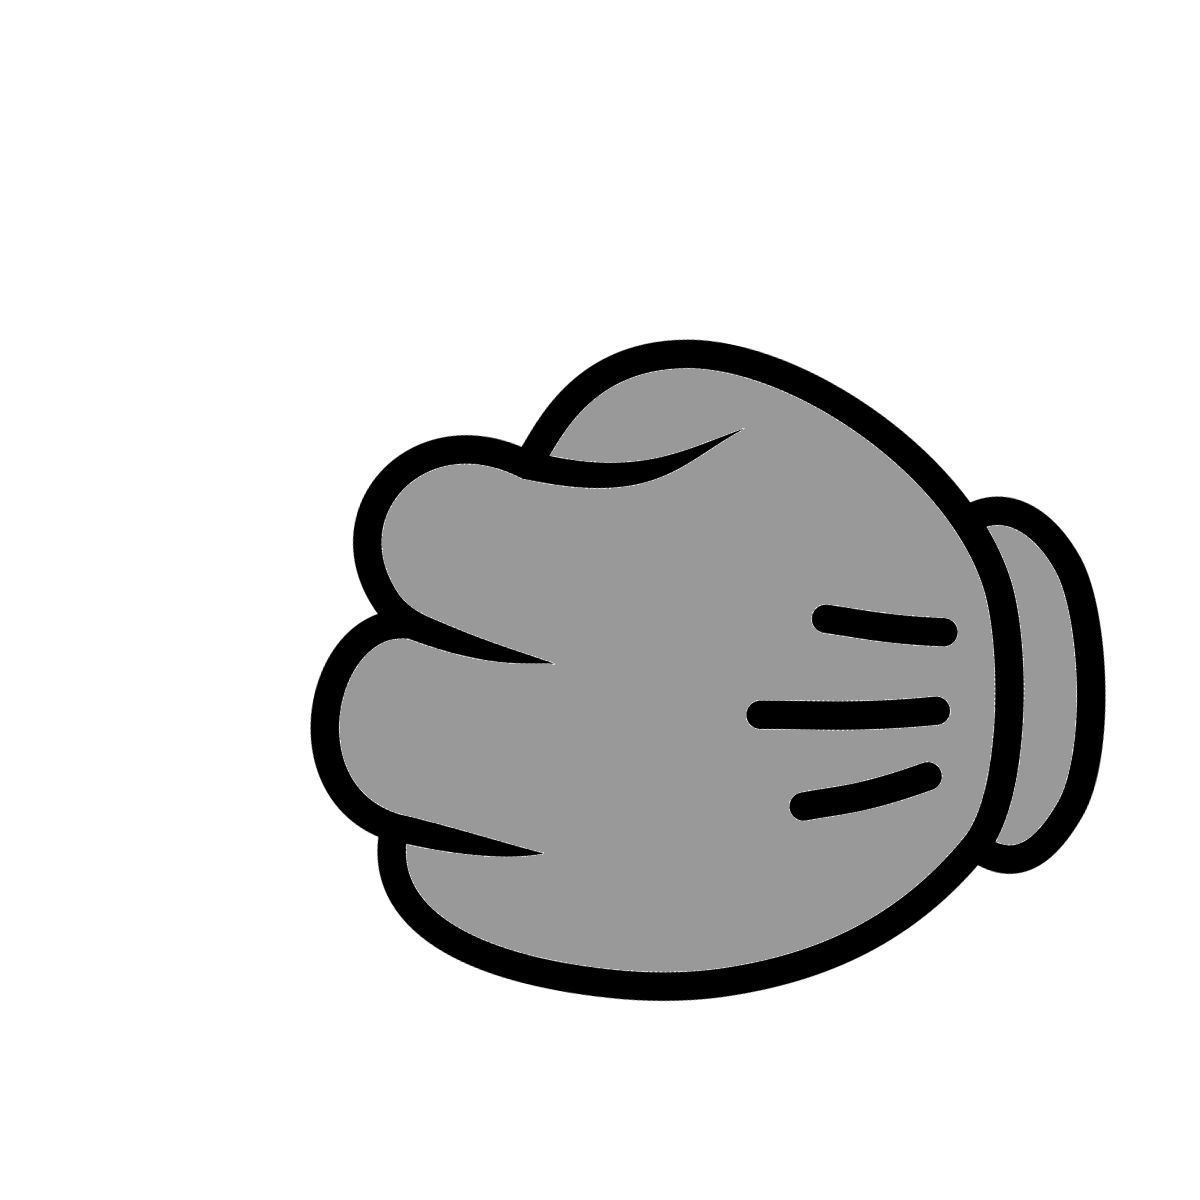
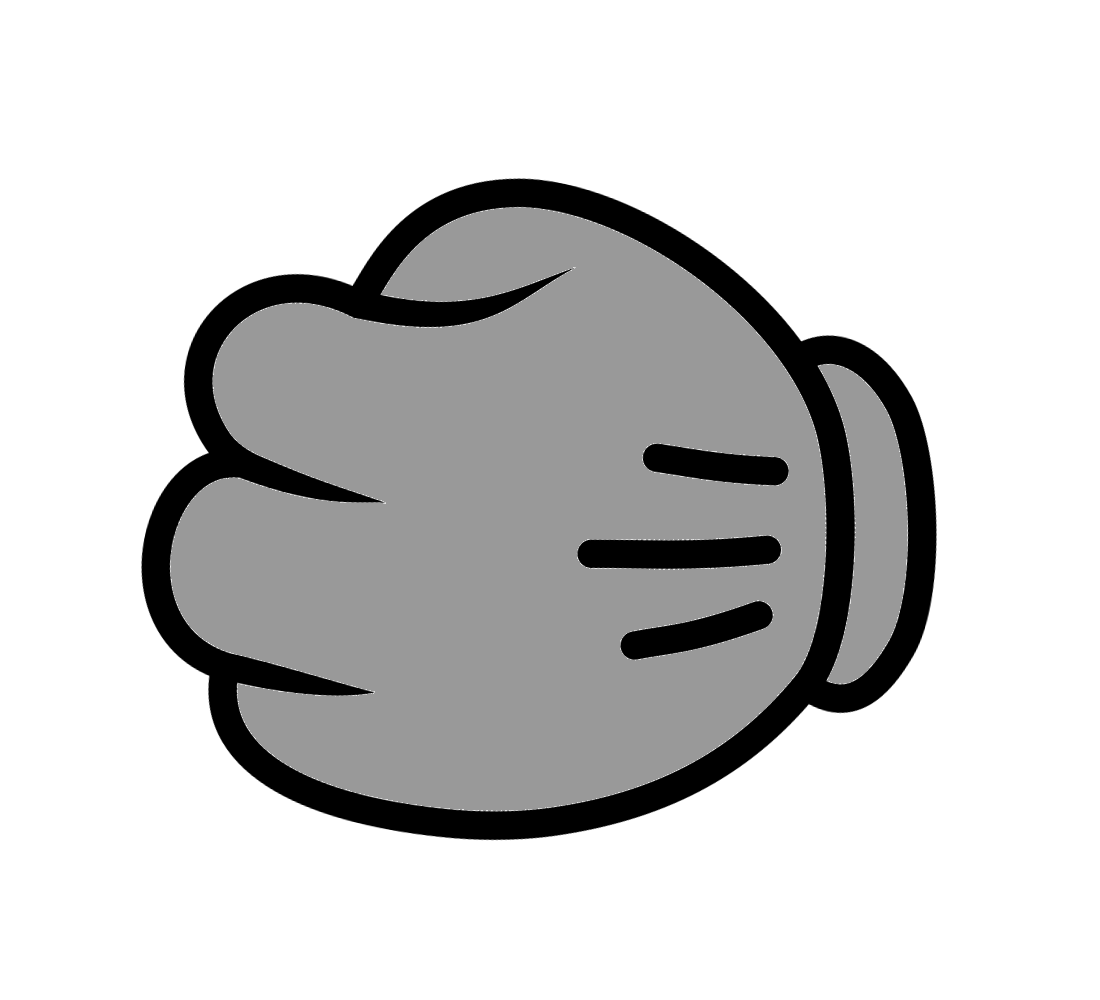
Bug fixes and fully running

Changed region(s): [[0.1236, 0.155, 0.9273, 0.868], [0.5873, 0.341, 0.6182, 0.372]]

diff --git a/script.js b/script.js
@@ -1,3 +1,17 @@
+var computerPlay;
+var cprock = document.getElementById("cpRockBtn");
+var cppaper = document.getElementById("cpPaperBtn");
+var cpscissors = document.getElementById("cpSciBtn");
+var cpChoice = document.getElementById("computerChoice");
+
+var playerPlay;
+var plrock = document.getElementById("plRockBtn");
+var plpaper = document.getElementById("plPaperBtn");
+var plscissors = document.getElementById("plSciBtn");
+var plChoice = document.getElementById("playerChoice");
+
+listen();
+
 function randomPlay(){
     var play = Math.floor(Math.random() * 3);
     switch(play){
@@ -6,11 +20,6 @@ function randomPlay(){
         case 2: return "scissors";
     }
 }
-var computerPlay = "";
-var cprock = document.getElementById("cpRockBtn");
-var cppaper = document.getElementById("cpPaperBtn");
-var cpscissors = document.getElementById("cpSciBtn");
-var cpChoice = document.querySelector("#computerChoice");
 
 function opponent(){
     var comPlay = randomPlay();
@@ -29,34 +38,10 @@ function opponent(){
         cpscissors.style.border = "thick solid black";
         cpChoice.src = "scissorshandcp.png";
     }
+    return comPlay;
 }
 
-var playerPlay = "";
-var plrock = document.querySelector("#plRockBtn");
-var plpaper = document.querySelector("#plPaperBtn");
-var plscissors = document.querySelector("#plSciBtn");
-var plChoice = document.querySelector("#playerChoice");
-
-plrock.addEventListener("click", function(){
-    plChoice.src = "rockhandpl.png";
-    playerPlay = "rock";
-    computerPlay = opponent();
-});
-
-plpaper.addEventListener("click", function(){
-    plChoice.src = "paperhandpl.png";
-    playerPlay = "paper";
-    computerPlay = opponent();
-});
-
-plscissors.addEventListener("click", function(){
-    plChoice.src = "scissorshandpl.png";
-    playerPlay = "scissors";
-    computerPlay = opponent();
-});
-
 function Win(playerSelection, computerSelection){
-    alert('hena');
     if(playerSelection == computerSelection)
         return 0;
     if((playerSelection == 'rock' && computerSelection == 'scissors') ||
@@ -66,17 +51,47 @@ function Win(playerSelection, computerSelection){
     return -1;
 }
 
-var winner = Win(playerPlay, computerPlay);
-console.log("and the winner iiiis " + playerPlay + " " + computerPlay);
-var displayWinner = document.querySelector("#roundWinner");
-if(winner == 1){
-    displayWinner.src = "mickeyWon.png";
-    console.log("and the winner iiiis " + playerPlay + " " + computerPlay);
+function result(){
+    var winner = Win(playerPlay, computerPlay);
+    var displayWinner = document.querySelector("#roundWinner");
+    if(winner == 1){
+        displayWinner.style.width = "250px"
+        displayWinner.src = "mickeyWon.png";
+    }
+    else if(winner == -1){
+        displayWinner.style.width = "250px"
+        displayWinner.src = "minnieWon.png";
+    }
+    else{
+        displayWinner.style.width = "360px"
+        displayWinner.src = "tie.png";
+    }
 }
-else if(winner == -1){
-    displayWinner.src = "minnieWon.png";
-    console.log("and the winner iiiis " + playerPlay + " " + computerPlay);
+
+function listen(){
+    plrock.addEventListener("click", function(){
+        plChoice.src = "rockhandpl.png";
+        playerPlay = "rock";
+        computerPlay = opponent();
+        result();
+    });
+    
+    plpaper.addEventListener("click", function(){
+        plChoice.src = "paperhandpl.png";
+        playerPlay = "paper";
+        computerPlay = opponent();
+        result();
+    });
+    
+    plscissors.addEventListener("click", function(){
+        plChoice.src = "scissorshandpl.png";
+        playerPlay = "scissors";
+        computerPlay = opponent();
+        result();
+    });
 }
-else{
-    console.log("and the winner iiiis " + playerPlay + " " + computerPlay);
-}
+
+
+
+
+    

diff --git a/index.html b/index.html
@@ -10,7 +10,7 @@
 <body style = "background-color: red">
 
     <div class = "header">
-        <img src = "minniefooter.jpg" width = "1430px" height = "100px">
+        <img src = "border.jpg" width = "1430px" height = "90px">
     </div>
 
 
@@ -20,18 +20,18 @@
             <div id = "playerBtns" style = "float: left;">
                 <ul class = "btnList" style = "list-style: none">
             
-                    <li><button id = "plRockBtn" class = "rockBtn button player"></button></li>
+                    <li><img id = "plRockBtn" class = "rockBtn button player" src = "rockhandpl.png"></img></li>
             
-                    <li><button id = "plPaperBtn" class = "paperBtn button player"></button></li>
+                    <li><img id = "plPaperBtn" class = "paperBtn button player" src = "paperhandpl.png"></img></li>
             
-                    <li><button id = "plSciBtn" class = "scissorsBtn button player"></button></li>
+                    <li><img id = "plSciBtn" class = "scissorsBtn button player" src = "scissorshandpl.png"></img></li>
     
                 </ul>
     
             </div>
     
             <div style = "float: right;">
-                <img id = "playerChoice" width = "350px" height = "350px">
+                <img id = "playerChoice" class = "choice" width = "320px" height = "320px">
             </div>
         </div>
 
@@ -44,18 +44,18 @@
             <div id = "computerBtns" style = "float: right;">
                 <ul class = "btnList" style = "list-style: none">
             
-                    <li><button id = "cpRockBtn" class = "rockBtn button computer"></button></li>
+                    <li><img id = "cpRockBtn" class = "rockBtn button computer" src = "rockhandcp.png"></img></li>
             
-                    <li><button id = "cpPaperBtn" class = "paperBtn button computer"></button></li>
+                    <li><img id = "cpPaperBtn" class = "paperBtn button computer" src = "paperhandcp.png"></img></li>
             
-                    <li><button id = "cpSciBtn" class = "scissorsBtn button computer"></button></li>
+                    <li><img id = "cpSciBtn" class = "scissorsBtn button computer" src = "scissorshandcp.png"></img></li>
     
                 </ul>
         
             </div>
     
             <div style = "float: left;">
-                <img id = "computerChoice" width = "350px" height = "350px">
+                <img id = "computerChoice" class = "choice" width = "320px" height = "320px">
             </div>
     
         </div>
@@ -64,11 +64,10 @@
 
 
     <div class = "footer">
-        <img src = "minniefooter.jpg" width = "1430px" height = "135px">
+        <img src = "border.jpg" width = "1430px" height = "125px">
     </div>
 
-
-    <script src = "script.js" type = "text/javascript"></script>
+    <script src = "script.js"></script>
 
 </body>
 

diff --git a/style.css b/style.css
@@ -24,38 +24,38 @@ div{
 }
 
 .playerSide{
-    width: 550px;
+    width: 500px;
 }
 
 .winner{
     display: inline-block;
     box-sizing: border-box;
-    width: 250px;
-    height: 350px;
+    margin: 0%;
+    padding: 0%;
+    width: 370px;
+    height: 400px;
 }
 
 .btnList{
     margin: 0%;
     padding: 0%;
     position: relative;
-    top: 50px;
+    top: -35px;
 }
 
 .button{
-    width: 120px;
-    height: 100px;
+    cursor: pointer;
+    width: 140px;
+    height: 140px;
     background-position: center;
     background-size: cover;
 }
 
-.rockBtn{
-    background-image: url("rock.jpg");
+.button:hover{
+    transform: scale(1.1);
 }
 
-.paperBtn{
-    background-image: url("paper.jpg");
-}
-
-.scissorsBtn{
-    background-image: url("scissors.jpg");
+.choice{
+    position: relative;
+    top: 30px;
 }

diff --git a/README.md b/README.md
@@ -1,0 +1,1 @@
+This is the well know "Rock Paper Scissors" game with a Mickey and Minnie theme.
